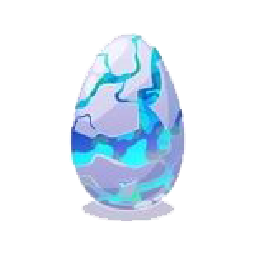
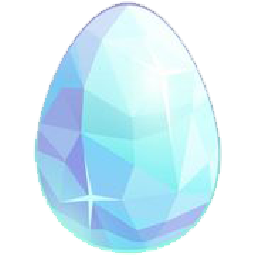
新增轉動效果 新增UIicon

diff --git a/src/spinToWin/SpineToWin.ts b/src/spinToWin/SpineToWin.ts
@@ -1,12 +1,14 @@
-class SpineToWin extends eui.Component implements  eui.UIComponent {
-	// 參數宣告區
-	// private yourName_tx : egret.TextField;
-	
-	private point_ig : eui.Image;
-	private turn_ig : eui.Image;
-	private start_bt : eui.Button;
-	private run_tx : eui.Label;
-	
+class SpineToWin extends eui.Component implements eui.UIComponent {
+	private point_ig: eui.Image;
+	private turn_ig: eui.Image;
+	private turn_gp: eui.Group;
+	private start_bt: eui.Button;
+	private run_tx: eui.Label;
+	private turnData: TTurnData;
+	private turnState: ETurnState = ETurnState.readyToStart;
+
+	private willGetTipStr = "恭喜轉到 : {0}";
+	private beStrartTip = "開始轉動....: {0}";
 
 	public constructor() {
 		super();
@@ -19,29 +21,57 @@ class SpineToWin extends eui.Component implements  eui.UIComponent {
 		this.initData();
 	}
 
-	protected partAdded(partName:string,instance:any):void
-	{
-		super.partAdded(partName,instance);
-	}
-
-	protected childrenCreated():void
-	{
-		super.childrenCreated();
-	}
-
-	// 以下開始
-	private initData():void{
-		
-	}
-	
-	private initUICom():void{
+	private initUICom(): void {
+		GFunction.setCenter(this.turn_gp, EAlignment.center);
 		this.start_bt.$addListener(egret.TouchEvent.TOUCH_TAP, this.onStart, this);
 	}
 
-	private onStart():void{
-		
-		// TweenLite.to(this.run_tx, 1, {directionalRotation:"270_cw"}); 
-		
+	// 以下開始
+	private initData(): void {
+		this.turnData = new TTurnData();
 	}
-	
+
+	protected partAdded(partName: string, instance: any): void {
+		super.partAdded(partName, instance);
+	}
+
+	protected childrenCreated(): void {
+		super.childrenCreated();
+	}
+
+	private onStart(): void {
+		let rad: number = GFunction.getRandomInt(15);
+		this.turnData.resulte = rad;
+		this.run_tx.text = String(rad);
+		let toAngle: number = this.turnData.getAngle(rad);
+		TweenMax.to(this.turn_gp, 5, { rotation: toAngle, onComplete: this.finishComplet.bind(this) });
+	}
+
+	private finishComplet(): void {
+		 this.setTipText(this.willGetTipStr, String(this.turnData.resulte));
+	}
+
+	private setTipText(formatStr: string, value:string): void {
+
+		this.run_tx.text = formatStr.format(value);
+	}
+}
+
+class TTurnData {
+	private aniTimer: number;
+	private roundCount: number;
+	private preIndexAngle: number;
+
+	public resulte: number;
+
+	constructor() {
+		this.resulte = 0;
+		this.roundCount = 10;
+		this.aniTimer = 0.1;
+		this.preIndexAngle = 360 / 15;
+	}
+
+	public getAngle(index: number): number {
+		return index * this.preIndexAngle + this.roundCount * 360;
+	}
 }

diff --git a/src/common/GFunction.ts b/src/common/GFunction.ts
@@ -8,12 +8,37 @@ class GFunction {
         return Math.floor(Math.random() * max);
     }
 
-     /**
-     * 判斷是否在範圍裡
-     * Get a random integer in the maximum range
-     */
-    public static isInRange(current:number, min:number, max:number) : boolean
-    {  
-        return Math.max(min, current) == Math.min(current, max);  
+    /**
+    * 判斷是否在範圍裡
+    * Get a random integer in the maximum range
+    */
+    public static isInRange(current: number, min: number, max: number): boolean {
+        return Math.max(min, current) == Math.min(current, max);
+    }
+
+    /**
+    * 設定Imgae元件中心座標
+    * 
+    */
+    public static setCenter(item: any, way: EAlignment): void {
+        switch (way) {
+            case EAlignment.zero:
+                item.$setAnchorOffsetX(0);
+                item.$setAnchorOffsetY(0);
+                break;
+            case EAlignment.center:
+                item.$setAnchorOffsetX(item.width * 0.5);
+                item.$setAnchorOffsetY(item.height * 0.5);
+                break;
+            case EAlignment.centerLeft:
+                item.$setAnchorOffsetX(0);
+                item.$setAnchorOffsetY(item.height * 0.5);
+                break;
+            case EAlignment.centerRight:
+                item.$setAnchorOffsetX(1);
+                item.$setAnchorOffsetY(item.height * 0.5);
+                break;
+
+        }
     }
 }

diff --git a/index.html b/index.html
@@ -41,8 +41,10 @@
 	<script egret="game" src="bin-debug/common/Expansion.js"></script>
 	<script egret="game" src="bin-debug/common/GConst.js"></script>
 	<script egret="game" src="bin-debug/common/GFunction.js"></script>
+	<script egret="game" src="bin-debug/EffectController.js"></script>
 	<script egret="game" src="bin-debug/LoadingUI.js"></script>
 	<script egret="game" src="bin-debug/Main.js"></script>
+	<script egret="game" src="bin-debug/SoundController.js"></script>
 	<script egret="game" src="bin-debug/spinToWin/GEnum.js"></script>
 	<script egret="game" src="bin-debug/spinToWin/SpineToWin.js"></script>
 	<script egret="game" src="bin-debug/ThemeAdapter.js"></script>

diff --git a/template/runtime/native_require.js b/template/runtime/native_require.js
@@ -13,8 +13,10 @@ var game_file_list = [
 	"bin-debug/common/Expansion.js",
 	"bin-debug/common/GConst.js",
 	"bin-debug/common/GFunction.js",
+	"bin-debug/EffectController.js",
 	"bin-debug/LoadingUI.js",
 	"bin-debug/Main.js",
+	"bin-debug/SoundController.js",
 	"bin-debug/spinToWin/GEnum.js",
 	"bin-debug/spinToWin/SpineToWin.js",
 	"bin-debug/ThemeAdapter.js",

diff --git a/src/EffectController.ts b/src/EffectController.ts
@@ -1,0 +1,14 @@
+class EffectController {
+	static instance: EffectController;
+	private static _instance: EffectController;
+
+	public static getInstance(): EffectController {
+		if (!EffectController.instance) {
+			EffectController.instance = new EffectController();
+		}
+		return EffectController.instance;
+	}
+
+	constructor() { }
+
+}

diff --git a/src/SoundController.ts b/src/SoundController.ts
@@ -1,0 +1,14 @@
+class SoundController {
+	static instance: SoundController;
+	private static _instance: SoundController;
+
+	public static getInstance(): SoundController {
+		if (!SoundController.instance) {
+			SoundController.instance = new SoundController();
+		}
+		return SoundController.instance;
+	}
+
+	constructor() { }
+
+}

diff --git a/src/spinToWin/GEnum.ts b/src/spinToWin/GEnum.ts
@@ -11,3 +11,19 @@ enum EEffectWay{
 	positive,//"_cw"
 	reverse //"_ccw"
 }
+
+enum ETurnState{
+	readyToStart,
+	truning,
+	readyToStop,
+	stoping,
+	stopFinsh
+}
+
+enum EAlignment{
+	zero,
+	center,
+	centerLeft,
+	centerRight
+
+}
